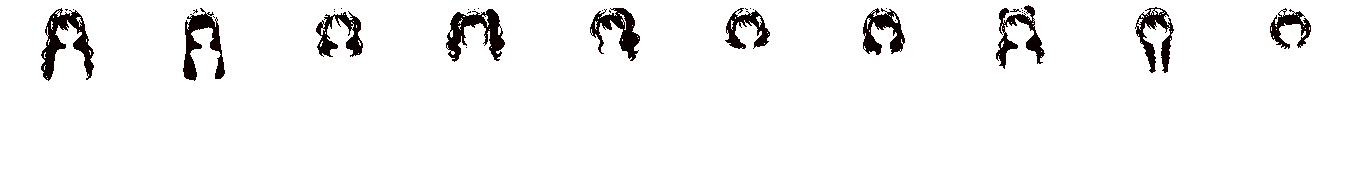
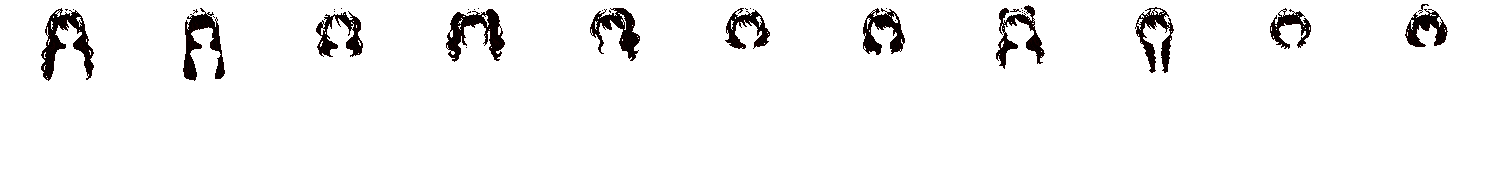
キャラ2（無口な子）を入れる：顔のタイプ（目・まゆ・口だけの層。頭の形・髪・体・服はキャラ1と同じ絵）、表情8つ（ふだん・笑顔・にっこり・おどろき・困り・目をとじる・照れ・ジト目）、髪型「ふんわりボブ」、服「森のパーカー」。お着替えに「キャラ」タブ：キャラ1・キャラ2のテンプレートで、顔・髪型・服・色をまとめて着せる（あとから1つずつ替えられる）。「顔」タブで顔のタイプをえらべる（v0.10.67）

diff --git a/app/js/charaparts.js b/app/js/charaparts.js
@@ -3,6 +3,7 @@
 //   衣装の番号（look.outfit）：'' ＝ 元のインナー、'u01' など ＝ parts.json の outfits の id（outfit の絵は衣装ごとに1コマ、sleeve の絵は衣装ごとに腕のコマ数ぶん）
 //   parts.json：{ close:[1コマの幅, 高さ]（寄り用・360ドット）, normal（ふだん用・半分）, poses：腕のコマ数, hairs：[{ id, name }]（髪の絵のコマの順） }
 //   髪型の番号（look.hair）：'' ＝ 元のごく短い髪、'h02' など ＝ hairs の id
+//   顔のタイプ（look.kao）：'' ＝ キャラ1の顔、'k2' など ＝ kaos の id（目・まゆ・口だけの層。下の「顔のタイプ」）
 import { settings, saveSettings } from './store.js';
 const THREE = window.THREE;
 const BASE = 'assets/chara/';
@@ -15,7 +16,7 @@ async function pixels(name) {
 export function loadParts() {
   return parts || (parts = (async () => {
     const J = await (await fetch(BASE + 'parts.json')).json(), L = {};
-    await Promise.all(['close', 'normal'].flatMap(lod => ['body', 'arms', 'hair', 'face', 'zone'].map(async k => { L[k + '_' + lod] = await pixels(k + '_' + lod); })));
+    await Promise.all(['close', 'normal'].flatMap(lod => ['body', 'arms', 'hair', 'face', 'zone', ...(J.kaos?.length ? ['kao'] : [])].map(async k => { L[k + '_' + lod] = await pixels(k + '_' + lod); })));
     // 服は1着ごとに1枚の絵（wear/<番号>_close.png）。コマの順は J.wearCols（トップス・ボトムス・くつ下・くつ・装飾品）のあとに、そで（腕のコマと同じ順）
     //   色番号だけを持つ（1ドット1バイト。255＝なし）。着の数が多いので、メモリを小さくするため
     const W = {};
@@ -52,8 +53,21 @@ export const charaOutfit = () => settings.charaOutfit || '';
 export function setCharaOutfit(id) { if (id) settings.charaOutfit = id; else delete settings.charaOutfit; saveSettings(); }
 export const lookOutfit = st => (st?.look ? st.look.outfit || '' : charaOutfit());
 // 表情（目・まゆ・口だけの層）：撮影でえらぶ（st.photo.face）。'' ＝ 元のほほえみ
-export const faceList = P => [{ id: '', name: 'ほほえみ' }, ...(P.J.faces || [])];
+//   顔のタイプ kao があるとき（キャラ2の顔など）は、その顔だけの表情（照れ・ジト目）を足す。'' の名前は、その顔の「ふだん」
+export const faceList = (P, kao = '') => { const K = kaoOf(P, kao); return [{ id: '', name: K ? 'ふだん' : 'ほほえみ' }, ...(P.J.faces || []), ...(K?.extra || [])]; };
 export const lookFace = st => st?.photo?.face || '';
+// 顔のタイプ（2026-11-26）：キャラごとの、目・まゆ・口の形。look.kao：'' ＝ キャラ1の顔（体の絵のまま）、'k2' ＝ キャラ2の顔。頭の形・髪・体・服は、どの顔でも同じ絵を使う
+//   絵は kao_close／kao_normal（顔ごと・表情ごとのコマ。場所は parts.json の kaos[].faces）。体の絵の「顔の中だけ」を置きかえる層
+export const kaoList = P => [{ id: '', name: 'キャラ1の顔' }, ...(P.J.kaos || [])];
+const kaoOf = (P, kao) => (kao ? (P.J.kaos || []).find(k => k.id === kao) : null) || null;
+export const charaKao = () => settings.charaKao || '';
+export const lookKao = st => (st?.look ? st.look.kao || '' : charaKao());
+// 表情の層のえらび方：{ img：絵, fi：表情のコマ（−1＝なし）, bi：まばたきのコマ（−1＝なし）, by：この行より上だけまばたきに替える, swap：まばたきのとき表情の層のかわりに使う（重ねない） }
+function faceSel(P, lod, face, kao) {
+  const K = kaoOf(P, kao), k = lod === 'close' ? 1 : .5, closed = (P.J.closed || []).includes(face);
+  if (K) { const fi = K.faces[face] ?? K.faces[''] ?? -1; return { img: P.L['kao_' + lod], fi, bi: closed ? -1 : K.faces[P.J.blink] ?? -1, by: (K.blinkY ?? P.J.blinkY?.close ?? 0) * k, swap: true }; }
+  const fl = P.J.faces || []; return { img: P.L['face_' + lod], fi: fl.findIndex(q => q.id === face), bi: closed ? -1 : fl.findIndex(q => q.id === P.J.blink), by: (P.J.blinkY?.close ?? 0) * k, swap: false };
+}
 
 // ---- 体型（2026-11-26）：頭の大きさ・脚の長さ・あごの長さを、絵を重ねるときに伸び縮みさせる。絵は描き足さない ----
 //   look.shape：'' ＝ 元のまま、'1,-1,0' のように「頭,脚,あご」の段（−2〜2）。頭＝あごの下を軸に大きく／小さく、脚＝腰〜足首の行を足す／抜く、あご＝口の上〜あごの下の行を足す／抜く
@@ -81,15 +95,14 @@ export function shapeInfo(P, lod, shape) {
   const sh = shapeOf(shape); if (!sh) return null; const g = geom(P, lod, sh);
   return { ext: g.ext, dy: g.dy, up: Math.round((sh.h - 1) * g.NECK * .85 + g.jd * sh.h) };
 }
-function sheetShape(P, hair, lod, outfit, face, sh) {
-  const key = hair + '|' + outfit + '|' + face + '|' + lod + '|' + sh.key; if (P.sheets[key]) return P.sheets[key];
+function sheetShape(P, hair, lod, outfit, face, sh, kao) {
+  const key = hair + '|' + outfit + '|' + face + '|' + lod + '|' + sh.key + '|' + kao; if (P.sheets[key]) return P.sheets[key];
   const G = geom(P, lod, sh), { fw, fh, FH2, NECK, r, neckP, dy, jr } = G, n = P.J.poses, hi = P.J.hairs.findIndex(h => h.id === hair), W = wearOf(outfit), cols = P.J.wearCols || WEAR_KEYS;
   const ord = (P.J.over || []).includes(W.bottom) ? ['socks', 'shoes', 'top', 'bottom', 'acc'] : ['socks', 'shoes', 'bottom', 'top', 'acc'];
   const under = ord.filter(k => W[k] && P.W[W[k] + '_' + lod]).map(k => [P.W[W[k] + '_' + lod], cols.indexOf(k)]), slv = W.top ? P.W[W.top + '_' + lod] : null, sc = cols.length;
   const af = W.acc ? P.W[W.acc + '_' + lod] : null, afc = cols.indexOf('acc'), zone = P.L['zone_' + lod];
   const body = P.L['body_' + lod].data, arms = P.L['arms_' + lod].data, hairs = P.L['hair_' + lod], hw = hairs.width;
-  const faces = P.L['face_' + lod], fl = P.J.faces || [], fi = fl.findIndex(q => q.id === face), bi = (P.J.closed || []).includes(face) ? -1 : fl.findIndex(q => q.id === P.J.blink);
-  const by = (P.J.blinkY?.close ?? 0) * (lod === 'close' ? 1 : .5), src = arms.length / 4 / fh;
+  const { img: faces, fi, bi, by, swap } = faceSel(P, lod, face, kao), src = arms.length / 4 / fh;
   // 頭の絵を先に作る（どのポーズでも同じ）。1マスを 3×3 に見て、多い色を取る。線の色は 3つ以上あれば優先
   const top0 = NECK - jr.length, cnt = new Int16Array(256), OFF = [1 / 6, .5, 5 / 6];
   const headImg = get => {
@@ -106,8 +119,9 @@ function sheetShape(P, hair, lod, outfit, face, sh) {
   const skin = headImg((x, y) => (y < NECK && body[(y * fw + x) * 4 + 3] > 127 ? body[(y * fw + x) * 4] : -1));
   const feat = blink => headImg((x, y) => {
     let v = -1;
-    if (fi >= 0) { const q = (y * faces.width + fi * fw + x) * 4; if (faces.data[q + 3] > 127) v = faces.data[q]; }
-    if (blink && bi >= 0 && y < by) { const q = (y * faces.width + bi * fw + x) * 4; if (faces.data[q + 3] > 127) v = faces.data[q]; }
+    const bl = blink && bi >= 0 && y < by;
+    if (fi >= 0 && !(bl && swap)) { const q = (y * faces.width + fi * fw + x) * 4; if (faces.data[q + 3] > 127) v = faces.data[q]; }
+    if (bl) { const q = (y * faces.width + bi * fw + x) * 4; if (faces.data[q + 3] > 127) v = faces.data[q]; }
     if (hi >= 0) { const h = (y * hw + hi * fw + x) * 4; if (hairs.data[h + 3] > 127) v = hairs.data[h]; }
     return v;
   });
@@ -134,25 +148,26 @@ function sheetShape(P, hair, lod, outfit, face, sh) {
 
 // 髪型 hair・細かさ lod（'close'／'normal'）のコマの絵（色番号の絵。横にポーズのコマが並ぶ）
 //   face：表情の番号。コマは「ポーズ n 個」のうしろに「同じポーズのまばたき n 個」（目のあたりだけ「目をとじる」の層に替える。目を閉じた表情は、まばたきなし）
-export function sheet(P, hair, lod, outfit = '', face = '', shape = '') {
-  const sh = shapeOf(shape); if (sh) return sheetShape(P, hair, lod, outfit, face, sh);
-  const key = hair + '|' + outfit + '|' + face + '|' + lod; if (P.sheets[key]) return P.sheets[key];
+export function sheet(P, hair, lod, outfit = '', face = '', shape = '', kao = '') {
+  if (!kaoOf(P, kao)) kao = '';
+  const sh = shapeOf(shape); if (sh) return sheetShape(P, hair, lod, outfit, face, sh, kao);
+  const key = hair + '|' + outfit + '|' + face + '|' + lod + (kao ? '||' + kao : ''); if (P.sheets[key]) return P.sheets[key];
   const [fw, fh] = P.J[lod], n = P.J.poses, hi = P.J.hairs.findIndex(h => h.id === hair), W = wearOf(outfit), cols = P.J.wearCols || WEAR_KEYS;
   // 体に着せる順：くつ下 → くつ → ボトムス → トップス → 装飾品。サスペンダーやジャンパースカートのように、上に重ねるボトムス（J.over）は、トップスのあと
   const ord = (P.J.over || []).includes(W.bottom) ? ['socks', 'shoes', 'top', 'bottom', 'acc'] : ['socks', 'shoes', 'bottom', 'top', 'acc'];
   const under = ord.filter(k => W[k] && P.W[W[k] + '_' + lod]).map(k => [P.W[W[k] + '_' + lod], cols.indexOf(k)]), slv = W.top ? P.W[W.top + '_' + lod] : null, sc = cols.length;
   const af = W.acc ? P.W[W.acc + '_' + lod] : null, afc = cols.indexOf('acc'), zone = P.L['zone_' + lod];   // 装飾品は「肩〜ひじ」より前・「ひじ〜手」より後ろ。zone：ポーズごとの「肩〜ひじ」の側
   const body = P.L['body_' + lod].data, arms = P.L['arms_' + lod].data, hairs = P.L['hair_' + lod], hw = hairs.width;
-  const faces = P.L['face_' + lod], fl = P.J.faces || [], fi = fl.findIndex(q => q.id === face), bi = (P.J.closed || []).includes(face) ? -1 : fl.findIndex(q => q.id === P.J.blink);
-  const by = (P.J.blinkY?.close ?? 0) * (lod === 'close' ? 1 : .5), src = arms.length / 4 / fh;   // by：この行より上だけ、まばたきの層を使う。src：腕の絵の幅
+  const { img: faces, fi, bi, by, swap } = faceSel(P, lod, face, kao), src = arms.length / 4 / fh;   // by：この行より上だけ、まばたきの層を使う。src：腕の絵の幅
   const out = new ImageData(fw * n * 2, fh), o = out.data, aw = fw * n * 2;
   for (let f = 0; f < n * 2; f++) for (let y = 0; y < fh; y++) for (let x = 0; x < fw; x++) {
     const pf = f % n, k = (y * aw + f * fw + x) * 4, b = (y * fw + x) * 4, a = (y * src + pf * fw + x) * 4;
     let v = -1;
     if (body[b + 3] > 127) v = body[b];
     for (const [wl, i] of under) { const q = wl.d[y * wl.w + i * fw + x]; if (q !== 255) v = q; }
-    if (fi >= 0) { const q = (y * faces.width + fi * fw + x) * 4; if (faces.data[q + 3] > 127) v = faces.data[q]; }
-    if (f >= n && bi >= 0 && y < by) { const q = (y * faces.width + bi * fw + x) * 4; if (faces.data[q + 3] > 127) v = faces.data[q]; }
+    const bl = f >= n && bi >= 0 && y < by;   // まばたきのコマの、目のあたり
+    if (fi >= 0 && !(bl && swap)) { const q = (y * faces.width + fi * fw + x) * 4; if (faces.data[q + 3] > 127) v = faces.data[q]; }
+    if (bl) { const q = (y * faces.width + bi * fw + x) * 4; if (faces.data[q + 3] > 127) v = faces.data[q]; }
     if (hi >= 0) { const h = (y * hw + hi * fw + x) * 4; if (hairs.data[h + 3] > 127) v = hairs.data[h]; }
     const front = af && af.d[y * af.w + afc * fw + x] !== 255 && zone.data[(y * zone.width + pf * fw + x) * 4 + 3] > 127;   // ここは装飾品が腕・そでの前（下に描いた装飾品と、その上の髪をそのまま見せる）
     if (!front && arms[a + 3] > 127) v = arms[a];
@@ -164,8 +179,8 @@ export function sheet(P, hair, lod, outfit = '', face = '', shape = '') {
 }
 // カードのキャラに、その見た目（髪型）の絵を入れる。ch：card.js の makeChara の返り値。見た目が変わったときだけ絵を作り直す
 export function applyParts(P, ch, st) {
-  const hair = lookHair(st), outfit = lookOutfit(st), face = lookFace(st), shape = shapeOf(lookShape(st))?.key || '', key = hair + '|' + outfit + '|' + face + '|' + shape; if (ch.partsKey === key) return; ch.partsKey = key;
-  const tex = lod => { const k = key + '|' + lod; if (!P.tex[k]) { const t = new THREE.CanvasTexture(sheet(P, hair, lod, outfit, face, shape)); t.magFilter = t.minFilter = THREE.NearestFilter; t.generateMipmaps = false; P.tex[k] = t; } return P.tex[k]; };
+  const hair = lookHair(st), outfit = lookOutfit(st), face = lookFace(st), shape = shapeOf(lookShape(st))?.key || '', kao = lookKao(st), key = hair + '|' + outfit + '|' + face + '|' + shape + '|' + kao; if (ch.partsKey === key) return; ch.partsKey = key;
+  const tex = lod => { const k = key + '|' + lod; if (!P.tex[k]) { const t = new THREE.CanvasTexture(sheet(P, hair, lod, outfit, face, shape, kao)); t.magFilter = t.minFilter = THREE.NearestFilter; t.generateMipmaps = false; P.tex[k] = t; } return P.tex[k]; };
   const size = lod => [P.J[lod][0], P.J[lod][1] + (shape ? EXT[lod] : 0)];
   ch.ext = shape ? EXT.close / P.J.close[1] : 0;   // 体型を変えた絵は、コマが上へこの割合だけ長い（placeChara が、その分だけ上へのばして置く）
   ch.setLods([{ s: 1, tex: tex('normal'), size: size('normal') }, { s: 2, tex: tex('close'), size: size('close') }]);

diff --git a/app/js/dress.js b/app/js/dress.js
@@ -1,11 +1,11 @@
 // お着替えの画面（2026-11-26）。ホームと撮影で同じ部品を使う。ちがうのは保存先だけ（ホーム＝ふだんの見た目、撮影＝そのカードだけ）
 //   上＝キャラ（いつも見える。髪型・顔をえらぶときは顔に寄る）／下＝部位のタブ → アイテムの一覧（絵つき）→ 色
-//   見た目（look）：{ colors: { skin, cloth, eye, hair }, hair：髪型の番号, outfit：衣装の番号 }（store.js の defaultLook と同じ形）
+//   見た目（look）：{ colors: { skin, cloth, eye, hair }, hair：髪型の番号, outfit：衣装の番号, kao：顔のタイプ }（store.js の defaultLook と同じ形）
 //   絵は描き足さない。assets/chara/ の層を重ねた絵（charaparts.js の sheet）に、色の置きかえ（characolor.js）をかけて見せるだけ
 //   部位を足すとき：TABS に1行足し、items(P) でアイテムの一覧、get／set で look のどこに入れるかを書く
 import { settings, saveSettings } from './store.js';
 import { PARTS, recolorChara } from './characolor.js';
-import { loadParts, sheet, hairList, outfitList, wearOf, packWear, WEAR_KEYS, shapeInfo, shapeSteps, packShape } from './charaparts.js';
+import { loadParts, sheet, hairList, outfitList, kaoList, wearOf, packWear, WEAR_KEYS, shapeInfo, shapeSteps, packShape } from './charaparts.js';
 import { esc, toast } from './ui.js';
 
 const COLORS = Object.fromEntries(PARTS.map(p => [p.k, p]));
@@ -17,9 +17,14 @@ const MORE = {
   cloth: ['#f2f2f4', '#2a2c38', '#26345e', '#f3a6bf', '#9fd8c4', '#f4d36b', '#c8b8f0', '#e2667a', '#8fc4f0', '#f0c8a0'],
 };
 // 部位のタブ。kind：'items'（絵の一覧）／'colors'（色だけ）。focus：上のキャラをどこに寄せるか（'face'／'body'）。colors：その下に出す色の行
+// キャラのテンプレート（parts.json の charas）：顔・髪型・服・色をまとめて着せる。体型は変えない。あとから髪型や服を1つずつ替えられる（服の「セット」と同じ考え方）
+const tmplOn = (L, c) => (L.kao || '') === (c.look.kao || '') && (L.hair || '') === (c.look.hair || '') && (L.outfit || '') === (c.look.outfit || '') && JSON.stringify(L.colors || {}) === JSON.stringify(c.look.colors || {});
 const TABS = [
+  { id: 'chara', name: 'キャラ', icon: '●', kind: 'items', focus: 'body', colors: [], crop: 'body', hint: 'キャラをえらぶと、顔・髪型・服・色がまとめて変わります。そのあと、髪型や服を1つずつ替えられます',
+    items: P => (P.J.charas || []).map(c => ({ id: c.id, name: c.name })), get: () => '', on: (L, v, P) => { const c = (P.J.charas || []).find(q => q.id === v); return !!c && tmplOn(L, c); },
+    set: (L, v, P) => { const c = (P.J.charas || []).find(q => q.id === v); if (!c) return; L.colors = { ...(c.look.colors || {}) }; L.hair = c.look.hair || ''; L.outfit = c.look.outfit || ''; if (c.look.kao) L.kao = c.look.kao; else delete L.kao; } },
   { id: 'hair', name: '髪型', icon: '✂', kind: 'items', focus: 'face', colors: ['hair'], items: P => hairList(P), get: L => L.hair || '', set: (L, v) => { L.hair = v; }, crop: 'face' },
-  { id: 'face', name: '顔', icon: '☺', kind: 'colors', focus: 'face', colors: ['skin', 'eye'] },
+  { id: 'face', name: '顔', icon: '☺', kind: 'items', focus: 'face', colors: ['skin', 'eye'], crop: 'face', items: P => kaoList(P), get: L => L.kao || '', set: (L, v) => { if (v) L.kao = v; else delete L.kao; } },
   // 服：絞りこみ（セット・トップス・ボトムス・くつ下・くつ）。parts.json の outfits の type（なければ 'set'＝上下そろい）で分ける
   { id: 'wear', name: '服', icon: '♥', kind: 'items', focus: 'body', colors: ['cloth'], crop: 'body',
     // 一覧：セット（上下そろい）と、部位ごと（'top:u01' のように「部位:番号」。番号なし＝その部位はインナー・なし）
@@ -34,7 +39,7 @@ const TABS = [
   { id: 'coord', name: 'コーデ', icon: '★', kind: 'coord', focus: 'body', colors: [] },
 ];
 const NONE = { top: 'インナー（上）', bottom: 'インナー（下）', socks: 'くつ下なし', shoes: 'はだし', acc: '装飾品なし' };
-const clone = L => ({ colors: { ...(L?.colors || {}) }, hair: L?.hair || '', outfit: L?.outfit || '', ...(L?.shape ? { shape: L.shape } : {}) });
+const clone = L => ({ colors: { ...(L?.colors || {}) }, hair: L?.hair || '', outfit: L?.outfit || '', ...(L?.shape ? { shape: L.shape } : {}), ...(L?.kao ? { kao: L.kao } : {}) });
 const SHAPES = [['頭の大きさ', ['小さい', 'やや小さい', 'ふつう', 'やや大きい', '大きい']], ['脚の長さ', ['短い', 'やや短い', 'ふつう', 'やや長い', '長い']], ['あごの長さ', ['短い', 'やや短い', 'ふつう', 'やや長い', '長い']]];
 const same = (a, b) => JSON.stringify(clone(a)) === JSON.stringify(clone(b));
 
@@ -43,7 +48,7 @@ const loadData = () => dataP || (dataP = Promise.all([loadParts(), fetch('assets
 
 // 見た目 L の立ちの絵を、cv に描く。crop：[x, y, w, h]（寄り用の絵の中の範囲）、z：何倍か
 function draw(cv, { P, D }, L, lod, crop, z) {
-  const src = sheet(P, L.hair || '', lod, L.outfit || '', '', L.shape || '').px, [fw] = P.J[lod], pal = D.pal.chara.map((c, i) => recolorChara(c, i, D, L.colors || {}));
+  const src = sheet(P, L.hair || '', lod, L.outfit || '', '', L.shape || '', L.kao || '').px, [fw] = P.J[lod], pal = D.pal.chara.map((c, i) => recolorChara(c, i, D, L.colors || {}));
   // 体型を変えた絵は上へ長い：全身は上へ広げ、顔は動いた先へ合わせる
   const si = shapeInfo(P, lod, L.shape); if (si) crop = crop.face ? [crop[0], Math.max(0, crop[1] + si.dy - si.up), crop[2], crop[3]] : [crop[0], crop[1], crop[2], crop[3] + si.ext];
   const [cx, cy, cw, ch] = crop, out = new ImageData(cw, ch), o = out.data, p = src.data;
@@ -107,7 +112,7 @@ export function openDress({ look, home = null, title = 'お着替え', note = ''
   // 下の一覧を描く。full＝タブを切りかえたとき（絵から作り直す）。そうでなければ、えらんだ印と色だけ直す
   function renderBody(full = true) {
     if (!env) return; renderBar();
-    if (!full && tab.kind !== 'coord' && tab.kind !== 'shape') { body.querySelectorAll('.du-item').forEach(b => b.setAttribute('aria-pressed', String(tab.on ? tab.on(L, b.dataset.v) : b.dataset.v === tab.get(L)))); if (tab.kind === 'items') thumbs(); return; }
+    if (!full && tab.kind !== 'coord' && tab.kind !== 'shape') { body.querySelectorAll('.du-item').forEach(b => b.setAttribute('aria-pressed', String(tab.on ? tab.on(L, b.dataset.v, env.P) : b.dataset.v === tab.get(L)))); if (tab.kind === 'items') thumbs(); return; }
     if (tab.kind === 'shape') {
       const st = shapeSteps(L.shape);
       body.innerHTML = `<p class="du-hint">頭・脚・あごの長さで、幼く／大人っぽく見せます。服や髪は、そのまま合います</p>` + SHAPES.map(([nm, labs], i) => `<div class="du-shape"><span class="du-lab">${nm}</span><div class="du-steps">${labs.map((l, k) => `<button data-shape="${i}:${k - 2}" aria-pressed="${st[i] === k - 2}">${l}</button>`).join('')}</div></div>`).join('')
@@ -124,13 +129,13 @@ export function openDress({ look, home = null, title = 'お着替え', note = ''
     const none = tab.kind === 'items' && f !== 'all' && !items.some(it => it.id && !it.id.endsWith(':'));
     body.innerHTML = tab.kind !== 'items' ? '<p class="du-hint">上の色をえらぶと、キャラの色が変わります</p>'
       : none ? `<p class="du-hint">「${esc(tab.filters.find(x => x[0] === f)[1])}」の服は、まだありません</p>`
-      : `<div class="du-grid ${tab.crop}">${items.map(it => `<button class="du-item" data-v="${esc(it.id)}" aria-pressed="${tab.on ? tab.on(L, it.id) : it.id === tab.get(L)}"><canvas></canvas><span class="du-nm">${esc(it.name)}</span></button>`).join('')}</div>`;
+      : `${tab.hint ? `<p class="du-hint">${esc(tab.hint)}</p>` : ''}<div class="du-grid ${tab.crop}">${items.map(it => `<button class="du-item" data-v="${esc(it.id)}" aria-pressed="${tab.on ? tab.on(L, it.id, env.P) : it.id === tab.get(L)}"><canvas></canvas><span class="du-nm">${esc(it.name)}</span></button>`).join('')}</div>`;
     thumbs();
   }
   // 一覧の小さな絵：そのアイテムだけを替えた見た目（色はいまのまま）
   function thumbs() {
     const B = bounds(env.P, 'normal');
-    body.querySelectorAll('.du-item[data-v]').forEach(b => { const t = clone(L); delete t.shape; tab.set(t, b.dataset.v); draw(b.querySelector('canvas'), env, t, 'normal', B[tab.crop], 1); });
+    body.querySelectorAll('.du-item[data-v]').forEach(b => { const t = clone(L); delete t.shape; tab.set(t, b.dataset.v, env.P); draw(b.querySelector('canvas'), env, t, 'normal', B[tab.crop], 1); });
   }
   const close = () => { root.remove(); document.body.classList.remove('du-open'); removeEventListener('resize', paint); document.removeEventListener('keydown', onKey); onClose?.(); };
   const onKey = e => { if (e.key === 'Escape') { e.preventDefault(); root.querySelector('[data-a=cancel]').click(); } };
@@ -142,7 +147,7 @@ export function openDress({ look, home = null, title = 'お着替え', note = ''
       change(x => { const k = packShape(...st); if (k) x.shape = k; else delete x.shape; }); renderBody();
     }
     else if (b.dataset.tab) { tab = TABS.find(t => t.id === b.dataset.tab); root.querySelectorAll('[data-tab]').forEach(x => x.setAttribute('aria-selected', String(x === b))); paint(); renderBody(); }
-    else if (b.dataset.v !== undefined) { if (!(tab.on ? tab.on(L, b.dataset.v) : tab.get(L) === b.dataset.v)) change(x => tab.set(x, b.dataset.v)); }
+    else if (b.dataset.v !== undefined) { if (!(tab.on ? tab.on(L, b.dataset.v, env.P) : tab.get(L) === b.dataset.v)) change(x => tab.set(x, b.dataset.v, env.P)); }
     else if (b.dataset.c !== undefined) { const k = b.closest('.du-colors').dataset.k; change(x => { if (b.dataset.c) x.colors[k] = b.dataset.c; else delete x.colors[k]; }); }
     else if (b.dataset.coord !== undefined) { const c = coords()[+b.dataset.coord]; if (c) { change(x => Object.assign(x, clone(c.look))); renderBody(); } }
     else if (b.dataset.del !== undefined) { const cs = coords().slice(), c = cs[+b.dataset.del]; if (c && confirm(`「${c.name}」を消しますか？`)) { cs.splice(+b.dataset.del, 1); settings.charaCoords = cs; saveSettings(); renderBody(); } }

diff --git a/app/js/zukan.js b/app/js/zukan.js
@@ -137,7 +137,7 @@ export function openViewer({ cardId, preview, onClose, posing = false }) {
   const p0 = first && placeById(first.placeId);
   if (!p0) { onClose(); return () => {}; }
   const list = preview ? [first] : cardsOf(p0.id).slice().reverse();   // 古い順
-  let idx = Math.max(0, list.findIndex(c => c.id === first.id)), card = first, p = p0, el = null, ph = null, lk = {}, lh = '', lo = '', ls = '';
+  let idx = Math.max(0, list.findIndex(c => c.id === first.id)), card = first, p = p0, el = null, ph = null, lk = {}, lh = '', lo = '', ls = '', lkao = '';
   const root = document.createElement('div'); root.className = 'viewer story'; root.setAttribute('role', 'dialog'); root.setAttribute('aria-modal', 'true');
   root.innerHTML = `<div class="bgblur"></div><div class="frame">
       <div class="stage"></div>
@@ -169,7 +169,7 @@ export function openViewer({ cardId, preview, onClose, posing = false }) {
   document.body.append(root);
   const stage = root.querySelector('.stage'), cam = root.querySelector('.cam'), camf = root.querySelector('.camf'), strip = cam.querySelector('.strip');
   let mode = 'pose', snap0 = '', env = null, coachT = 0;
-  const look = () => ({ colors: { ...lk }, hair: lh, outfit: lo, ...(ls ? { shape: ls } : {}) });
+  const look = () => ({ colors: { ...lk }, hair: lh, outfit: lo, ...(ls ? { shape: ls } : {}), ...(lkao ? { kao: lkao } : {}) });
   // 下の列：ポーズと表情は、いまの見た目のままの小さな絵。光は記号（光・グロー・明るさを1列に並べる）
   const opt = (attr, v, name, inner, cls = '') => `<button class="opt ${cls}" data-${attr}="${v}" aria-pressed="false"><i aria-hidden="true">${inner}</i>${name}</button>`;
   const orbs = (attr, list) => list.map(([v, n, c]) => opt(attr, v, n, `<b class="orb ${c}"></b>`)).join('');
@@ -177,7 +177,7 @@ export function openViewer({ cardId, preview, onClose, posing = false }) {
     strip.setAttribute('aria-label', MODES.find(m => m[0] === mode)[1]);
     cam.querySelectorAll('[data-mode]').forEach(b => b.setAttribute('aria-pressed', String(b.dataset.mode === mode)));
     strip.innerHTML = mode === 'pose' ? POSES.map(([i, n]) => opt('pose', i, n, '<canvas></canvas>', 'pose')).join('')
-      : mode === 'face' ? (env ? faceList(env.P).map(q => opt('face', q.id, q.name, '<canvas></canvas>', 'face')).join('') : '')
+      : mode === 'face' ? (env ? faceList(env.P, lkao).map(q => opt('face', q.id, q.name, '<canvas></canvas>', 'face')).join('') : '')
       : `<span class="gl">光</span>${orbs('rim', [[0, '無光', 'r0'], [3, '順光', 'r3'], [1, '半逆光', 'r1'], [2, '逆光', 'r2']])}<span class="gl">グロー</span>${orbs('glow', [[0, 'なし', 'g0'], [1, '弱い', 'g1'], [2, '強い', 'g2']])}<span class="gl">明るさ</span>${orbs('light', [['bright', '明るいまま', 'lb'], ['blend', 'なじませる', 'ln']])}`;
     strip.scrollLeft = 0; paint(); marks();
   }
@@ -198,6 +198,7 @@ export function openViewer({ cardId, preview, onClose, posing = false }) {
     idx = i; card = list[i]; p = placeById(card.placeId);
     ph = { x: 0, y: 0, s: 1, r: 0, light: 'bright', pose: 0, rim: 0, glow: 0, ...(card.photo || {}) };
     ls = card.look ? card.look.shape || '' : settings.charaShape || '';   // この撮影の体型
+    lkao = card.look ? card.look.kao || '' : settings.charaKao || '';   // この撮影の顔のタイプ
     lo = card.look ? card.look.outfit || '' : charaOutfit();   // この撮影の衣装
     lh = card.look ? card.look.hair || '' : charaHair();   // この撮影の髪型（前に撮ったカードで髪型がなければ、元の短い髪）
     lk = { ...(card.look?.colors || charaColors()) };   // この撮影のお着替え（色）。残すまではカードに書かない
@@ -288,7 +289,7 @@ export function openViewer({ cardId, preview, onClose, posing = false }) {
     }
     else if (a === 'save') saveImage();
     else if (a === 'dress') {   // この撮影だけのお着替え。カードの画面からひらいたときは、決定でこのカードに残す。撮影の中からひらいたときは、「残す」を押すまで残さない（試し見は残さない）
-      const inCam = root.classList.contains('posing'), before = look(), apply = L => { lk = { ...L.colors }; lh = L.hair || ''; lo = L.outfit || ''; ls = L.shape || ''; sync(); if (inCam) paint(); };
+      const inCam = root.classList.contains('posing'), before = look(), apply = L => { lk = { ...L.colors }; lh = L.hair || ''; lo = L.outfit || ''; ls = L.shape || ''; lkao = L.kao || ''; sync(); if (inCam) paint(); };
       openDress({ look: before, home: defaultLook(), title: 'お着替え', note: preview ? '試し見なので、残りません' : inCam ? '「残す」を押すと、このカードに残ります' : 'この撮影だけ。ホームのお着替えは変わりません',
         onChange: apply, onSave: L => { apply(L); if (!preview && !inCam) { const k = look(); setPhoto(card.id, card.photo ?? null, k); card.look = k; clearSnaps(); toast('このカードのお着替えを残しました'); } } });
     }

diff --git a/app/sw.js b/app/sw.js
@@ -1,10 +1,10 @@
 // オフライン対応：アプリ本体と絵を端末に保存して、電波がなくても開けるようにする
 // 版を上げるときは VERSION を変える（古い保存は消える）
-const VERSION = 'tabiquest-v0.10.66';
+const VERSION = 'tabiquest-v0.10.67';
 const CORE = [
   './', 'index.html', 'manifest.json', 'css/app.css', 'vendor/three.r128.min.js',
   'js/main.js', 'js/card.js', 'js/places.js', 'js/photo_places.js', 'js/plain_places.js', 'js/store.js', 'js/geo.js', 'js/conditions.js', 'js/ui.js', 'js/arrival.js', 'js/zukan.js', 'js/debug.js', 'js/mihon.js',
-  'js/map.js', 'js/goals.js', 'js/calendar.js', 'js/home.js', 'js/serifu.js', 'serifu/futsuu.json', 'js/characolor.js', 'js/charaparts.js', 'js/dress.js', 'js/camthumb.js', 'assets/chara/parts.json', 'assets/chara/body_close.png', 'assets/chara/body_normal.png', 'assets/chara/arms_close.png', 'assets/chara/arms_normal.png', 'assets/chara/hair_close.png', 'assets/chara/hair_normal.png', 'assets/chara/face_close.png', 'assets/chara/face_normal.png', 'assets/chara/zone_close.png', 'assets/chara/zone_normal.png',
+  'js/map.js', 'js/goals.js', 'js/calendar.js', 'js/home.js', 'js/serifu.js', 'serifu/futsuu.json', 'js/characolor.js', 'js/charaparts.js', 'js/dress.js', 'js/camthumb.js', 'assets/chara/parts.json', 'assets/chara/body_close.png', 'assets/chara/body_normal.png', 'assets/chara/arms_close.png', 'assets/chara/arms_normal.png', 'assets/chara/hair_close.png', 'assets/chara/hair_normal.png', 'assets/chara/face_close.png', 'assets/chara/face_normal.png', 'assets/chara/kao_close.png', 'assets/chara/kao_normal.png', 'assets/chara/zone_close.png', 'assets/chara/zone_normal.png',
   'assets/map/dot/levels.json', 'assets/map/dot/jp8.png', 'assets/map/dot/jp2.png', 'assets/map/dot/jp1.png', 'assets/map/dot/kt1000.png', 'assets/map/dot/kt250.png', 'assets/map/dot/kt100.png', 'assets/map/dot/kt50.png', 'assets/map/dot/near0.png', 'assets/map/dot/near1.png', 'assets/map/dot/near2.png',
   'js/scenes/minatomirai.js', 'js/scenes/chukagai.js', 'js/scenes/kamakura.js', 'js/scenes/photo.js', 'js/scenes/look.js', 'js/scenes/dotscene.js',
   'assets/minatomirai/boat.png', 'assets/minatomirai/chara.png', 'assets/minatomirai/data.json', 'assets/minatomirai/front.png', 'assets/minatomirai/front_night.png', 'assets/minatomirai/front_snow.png', 'assets/minatomirai/gulls.png', 'assets/minatomirai/scene.png', 'assets/minatomirai/scene_night.png', 'assets/minatomirai/scene_snow.png', 'assets/minatomirai/sky.png', 'assets/minatomirai/sky_evening.png', 'assets/minatomirai/sky_morning.png', 'assets/minatomirai/sky_night.png', 'assets/minatomirai/sky_overcast.png', 'assets/minatomirai/sky_winter.png',

diff --git a/app/js/home.js b/app/js/home.js
@@ -49,7 +49,7 @@ let charaImg = null;
 function loadChara() {
   return charaImg || (charaImg = (async () => {
     const D = await (await fetch('assets/kamakura/data.json')).json();
-    const P = await loadParts(), im = partsSheet(P, charaHair(), 'close', charaOutfit(), '', settings.charaShape || '');
+    const P = await loadParts(), im = partsSheet(P, charaHair(), 'close', charaOutfit(), '', settings.charaShape || '', settings.charaKao || '');
     const c = document.createElement('canvas'); c.width = im.width; c.height = im.height;
     const x = c.getContext('2d', { willReadFrequently: true }); x.drawImage(im, 0, 0);
     const d = x.getImageData(0, 0, c.width, c.height), pal = D.pal.chara.map((v, i) => recolorChara(v, i, D));   // ふだんのお着替えの色
@@ -163,7 +163,7 @@ export function renderHome(view, { header } = {}) {
     }
     else if (a === 'dress') {   // ホームのお着替え＝ふだんの見た目。これから作るカードと、ホームのキャラに使う（前に撮ったカードは変わらない）
       openDress({ look: defaultLook(), title: 'お着替え', note: 'ふだんの見た目。これからのカードにも使います',
-        onSave: L => { settings.charaColors = L.colors; if (L.hair) settings.charaHair = L.hair; else delete settings.charaHair; if (L.outfit) settings.charaOutfit = L.outfit; else delete settings.charaOutfit; if (L.shape) settings.charaShape = L.shape; else delete settings.charaShape;
+        onSave: L => { settings.charaColors = L.colors; if (L.hair) settings.charaHair = L.hair; else delete settings.charaHair; if (L.outfit) settings.charaOutfit = L.outfit; else delete settings.charaOutfit; if (L.shape) settings.charaShape = L.shape; else delete settings.charaShape; if (L.kao) settings.charaKao = L.kao; else delete settings.charaKao;
           saveSettings(); clearSnaps(); charaImg = null; showChara(); toast('お着替えを保存しました'); } });
     }
     else if (a === 'blur') {   // ぼかし具合を動かして見る（後ろが見えるシート）

diff --git a/app/js/store.js b/app/js/store.js
@@ -35,7 +35,7 @@ const books = { real: migrate(read(KEY.real)), debug: migrate(read(KEY.debug)) }
 // お着替え（キャラの見た目）：ホームで決めたものが「ふだんの見た目」（settings.charaColors など）。カードには、できたときの見た目を look として残す
 //   look：{ colors: { skin, cloth, eye, hair } }（髪型・衣装が入ったら、ここに足す）。前に作ったカードには、いまの見た目を1回だけ写して、これ以上変わらないようにする
 //   hair：髪型の番号（'' ＝ 元のごく短い髪）、outfit：衣装の番号（'' ＝ 元のインナー）。charaparts.js
-export const defaultLook = () => ({ colors: { ...(settings.charaColors || {}) }, hair: settings.charaHair || '', outfit: settings.charaOutfit || '', ...(settings.charaShape ? { shape: settings.charaShape } : {}) });
+export const defaultLook = () => ({ colors: { ...(settings.charaColors || {}) }, hair: settings.charaHair || '', outfit: settings.charaOutfit || '', ...(settings.charaShape ? { shape: settings.charaShape } : {}), ...(settings.charaKao ? { kao: settings.charaKao } : {}) });
 for (const b of Object.values(books)) for (const c of b.cards) if (!c.look) c.look = defaultLook();
 write(KEY.real, books.real); write(KEY.debug, books.debug);
 export const mode = () => (DEBUG ? 'debug' : 'real');

diff --git a/app/js/camthumb.js b/app/js/camthumb.js
@@ -8,7 +8,7 @@ export const loadThumbData = () => dataP || (dataP = Promise.all([loadParts(), f
 
 // 見た目 L（{ colors, hair, outfit }）・表情 face の、f コマ目の絵から crop＝[x, y, w, h] を cv に描く
 function draw(cv, { P, D }, L, face, lod, f, crop) {
-  const src = sheet(P, L.hair || '', lod, L.outfit || '', face || '').px, [fw] = P.J[lod], pal = D.pal.chara.map((c, i) => recolorChara(c, i, D, L.colors || {}));
+  const src = sheet(P, L.hair || '', lod, L.outfit || '', face || '', '', L.kao || '').px, [fw] = P.J[lod], pal = D.pal.chara.map((c, i) => recolorChara(c, i, D, L.colors || {}));
   const [cx, cy, cw, ch] = crop; cv.width = cw; cv.height = ch;
   const x = cv.getContext('2d'), out = x.createImageData(cw, ch), o = out.data, p = src.data;
   for (let y = 0; y < ch; y++) for (let xx = 0; xx < cw; xx++) {

diff --git a/app/js/main.js b/app/js/main.js
@@ -46,7 +46,7 @@ import * as kawasakidaishi from './scenes/kawasakidaishi.js';
 import * as kamakura from './scenes/kamakura.js';
 import * as photo from './scenes/photo.js';
 
-export const VERSION = '0.10.66';
+export const VERSION = '0.10.67';
 engine.register('minatomirai', minatomirai.build);
 engine.register('chukagai', chukagai.build);
 engine.register('tokyotower', tokyotower.build);
